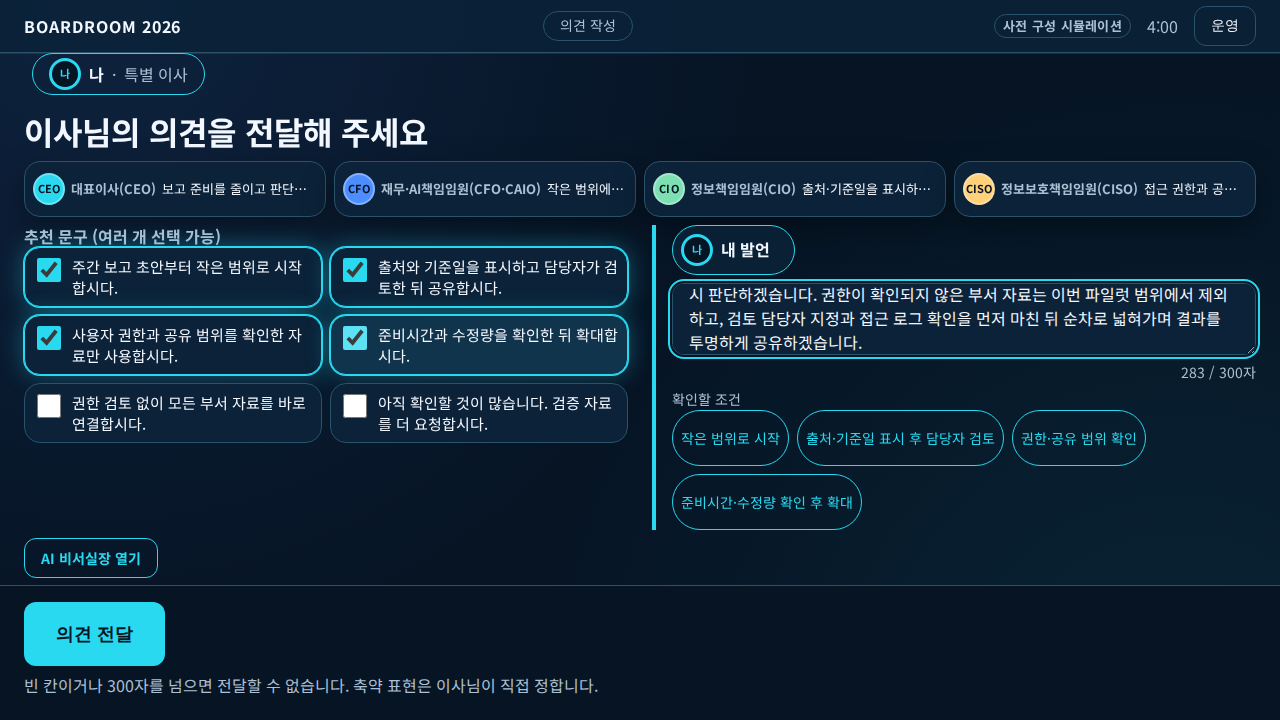
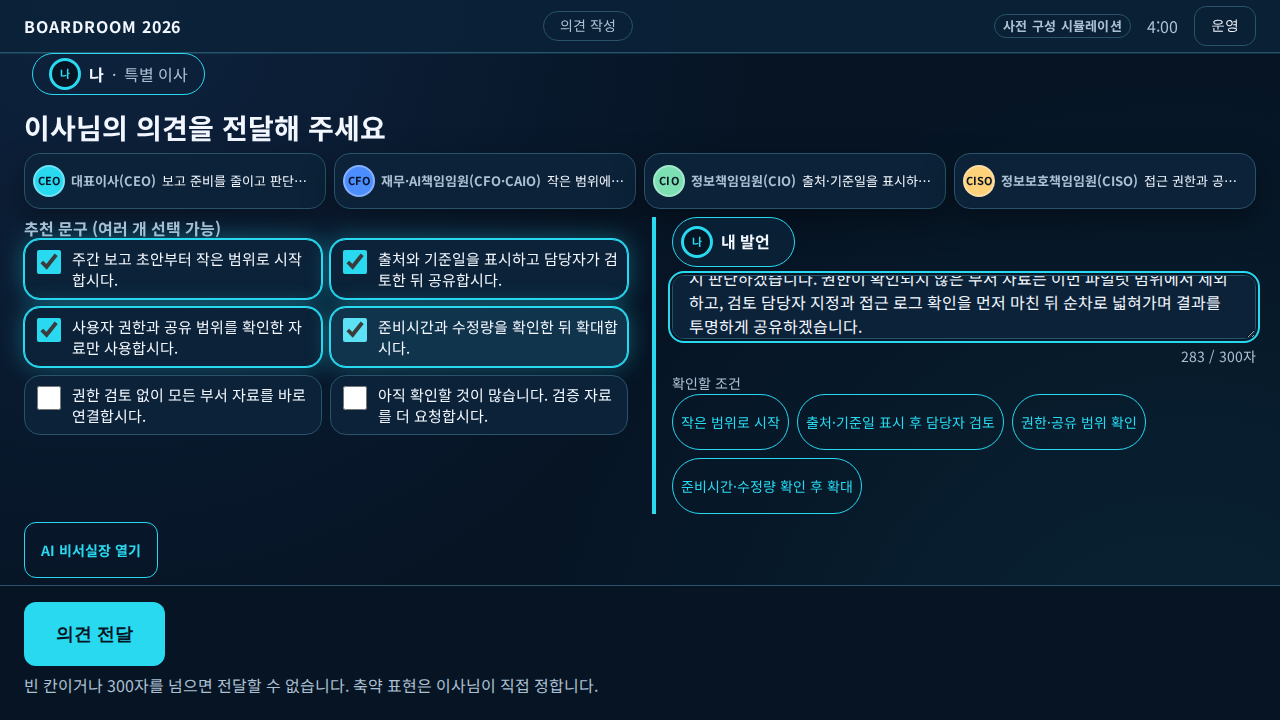
design: keep the assistant toggle at the 56px minimum; reclaim 1280x720 space from title and textarea instead
Codex follow-up on PR #2: DESIGN_SPEC requires the 56px click target at
1280x720 too, so the toggle override is dropped. The populated DISCUSS
screen still fits above the sticky footer by trimming the 1280px title
(28px) and textarea height (64px); measured toggle bottom 578px vs
footer top 585px.

Claude-Session: https://claude.ai/code/session_01Hv3GW5mvfzy4sUd1mDRZKB

Changed region(s): [[0.0, 0.1528, 1.0, 0.7333], [0.0312, 0.7333, 0.125, 0.7944]]

diff --git a/src/styles/screens/discuss.css b/src/styles/screens/discuss.css
@@ -97,7 +97,9 @@
   padding: var(--space-2);
   cursor: pointer;
   /* 선택 120ms(DESIGN_SPEC.md 4장 "선택120ms"). */
-  transition: border-color var(--transition-fast) ease, background-color var(--transition-fast) ease;
+  transition:
+    border-color var(--transition-fast) ease,
+    background-color var(--transition-fast) ease;
 }
 
 .phrase-card:hover {
@@ -218,7 +220,9 @@
   color: var(--text);
   cursor: pointer;
   font-family: inherit;
-  transition: border-color var(--transition-fast) ease, color var(--transition-fast) ease;
+  transition:
+    border-color var(--transition-fast) ease,
+    color var(--transition-fast) ease;
 }
 
 .condition-chip--accepted {
@@ -306,8 +310,13 @@
   /* rows=8(JSX)로 정해진 기본 높이 대신 명시적 height로 줄이고, 남는 내용은
      내부 스크롤로 본다(DESIGN_SPEC.md 6장 "텍스트 전체는 입력창 내부 스크롤
      가능하다"). 글자 축소·항목 누락 대신 이 높이만 줄인다. */
+  .discuss-screen__title {
+    font-size: 28px;
+    line-height: 1.2;
+  }
+
   .draft-editor__textarea {
-    height: 72px;
+    height: 64px;
     min-height: 0;
     font-size: 16px;
   }

diff --git a/src/styles/screens/assistant.css b/src/styles/screens/assistant.css
@@ -110,10 +110,9 @@
     grid-template-columns: 1fr;
   }
 
-  /* 1280×720에서는 고정 하단 CTA 위 여유가 적어 토글을 콤팩트하게 둔다(Codex 검토, PR #2).
-     56px 최소 클릭 영역은 1920×1080 기준이며, 720 높이에서는 가려지지 않는 것이 우선이다. */
+  /* 최소 클릭 높이 56px는 1280×720에서도 유지한다(DESIGN_SPEC.md 2·6장). 720 높이에
+     들어가게 하는 여유는 토글이 아니라 헤더·제목·입력창 높이에서 확보한다(Codex 검토, PR #2). */
   .assistant-panel__toggle {
-    min-height: 40px;
     padding: 0 var(--space-2);
     font-size: 14px;
   }
